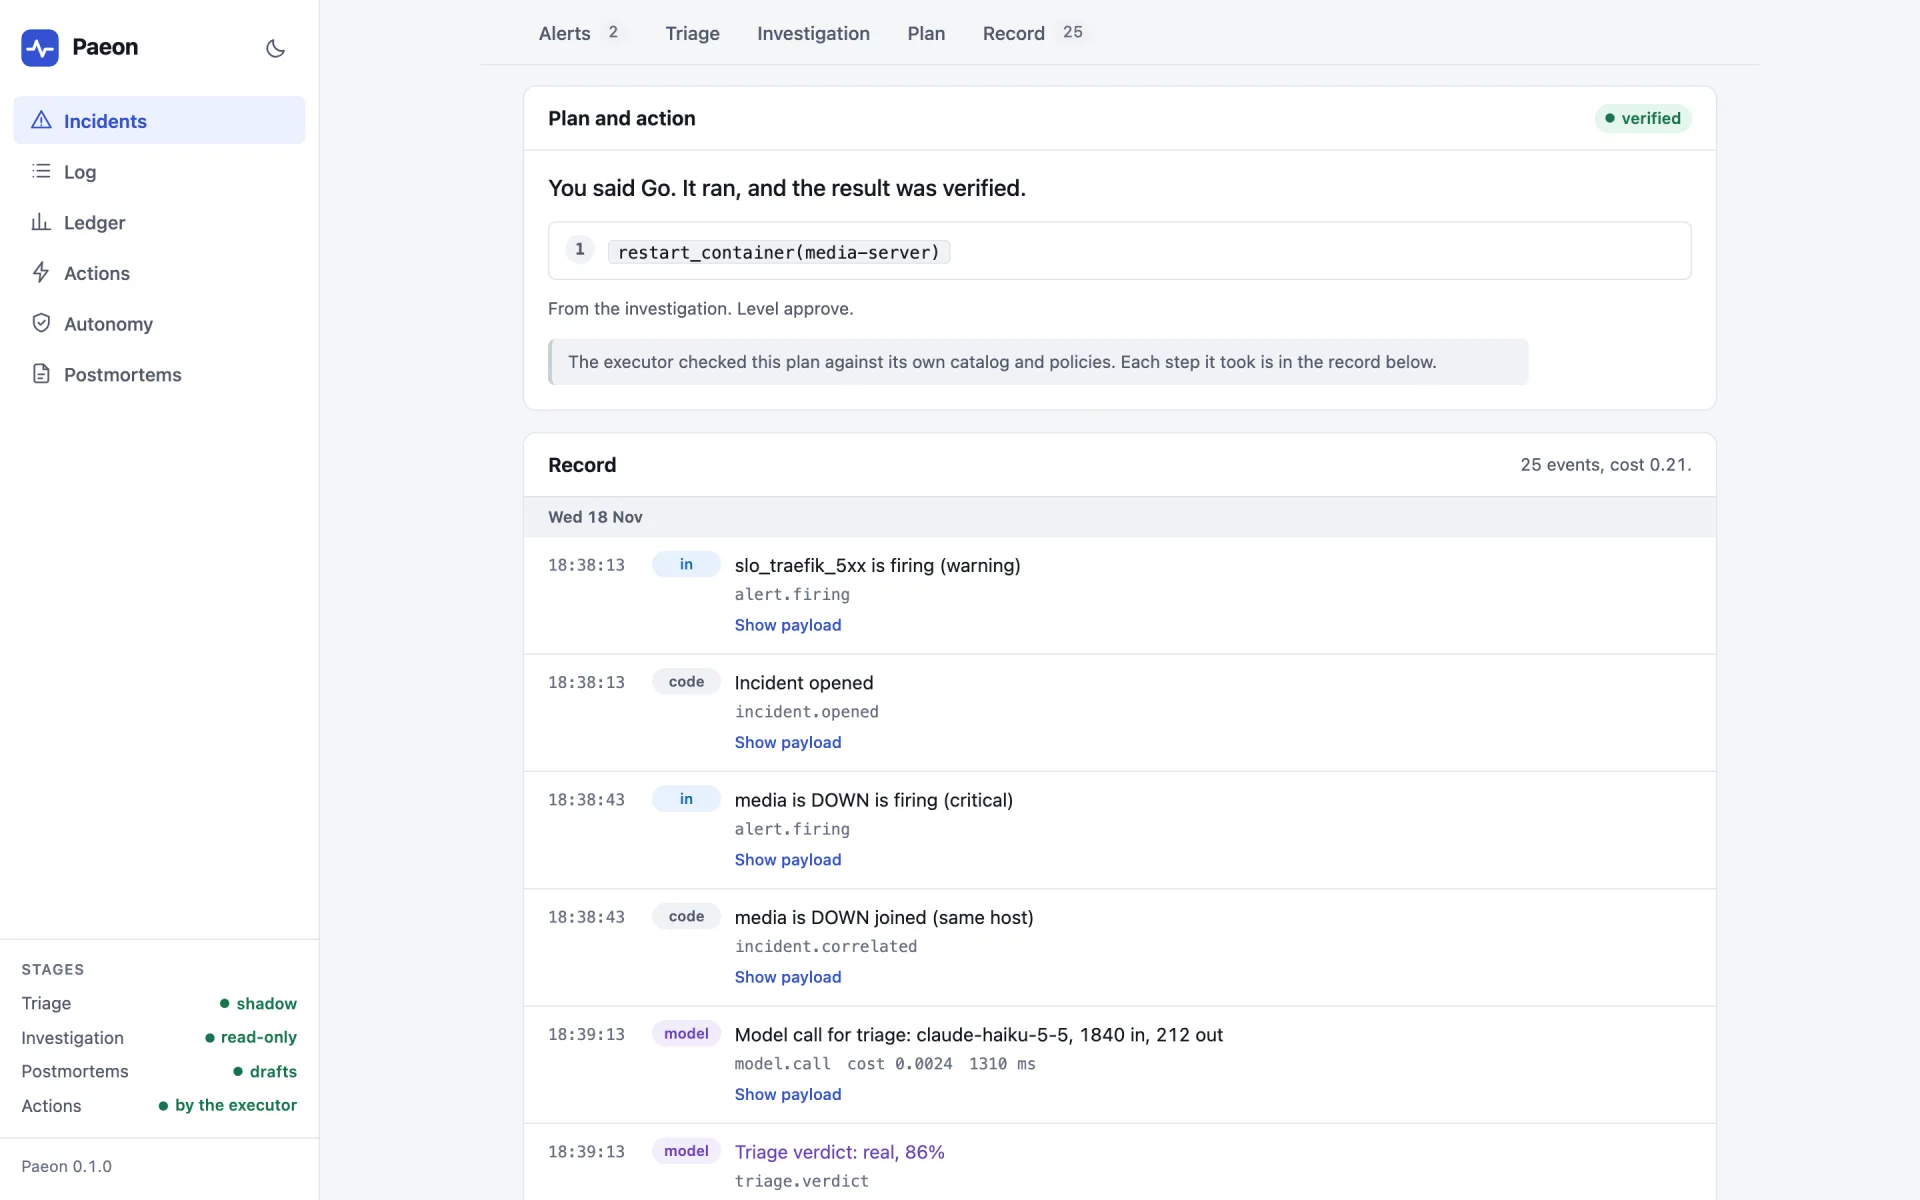
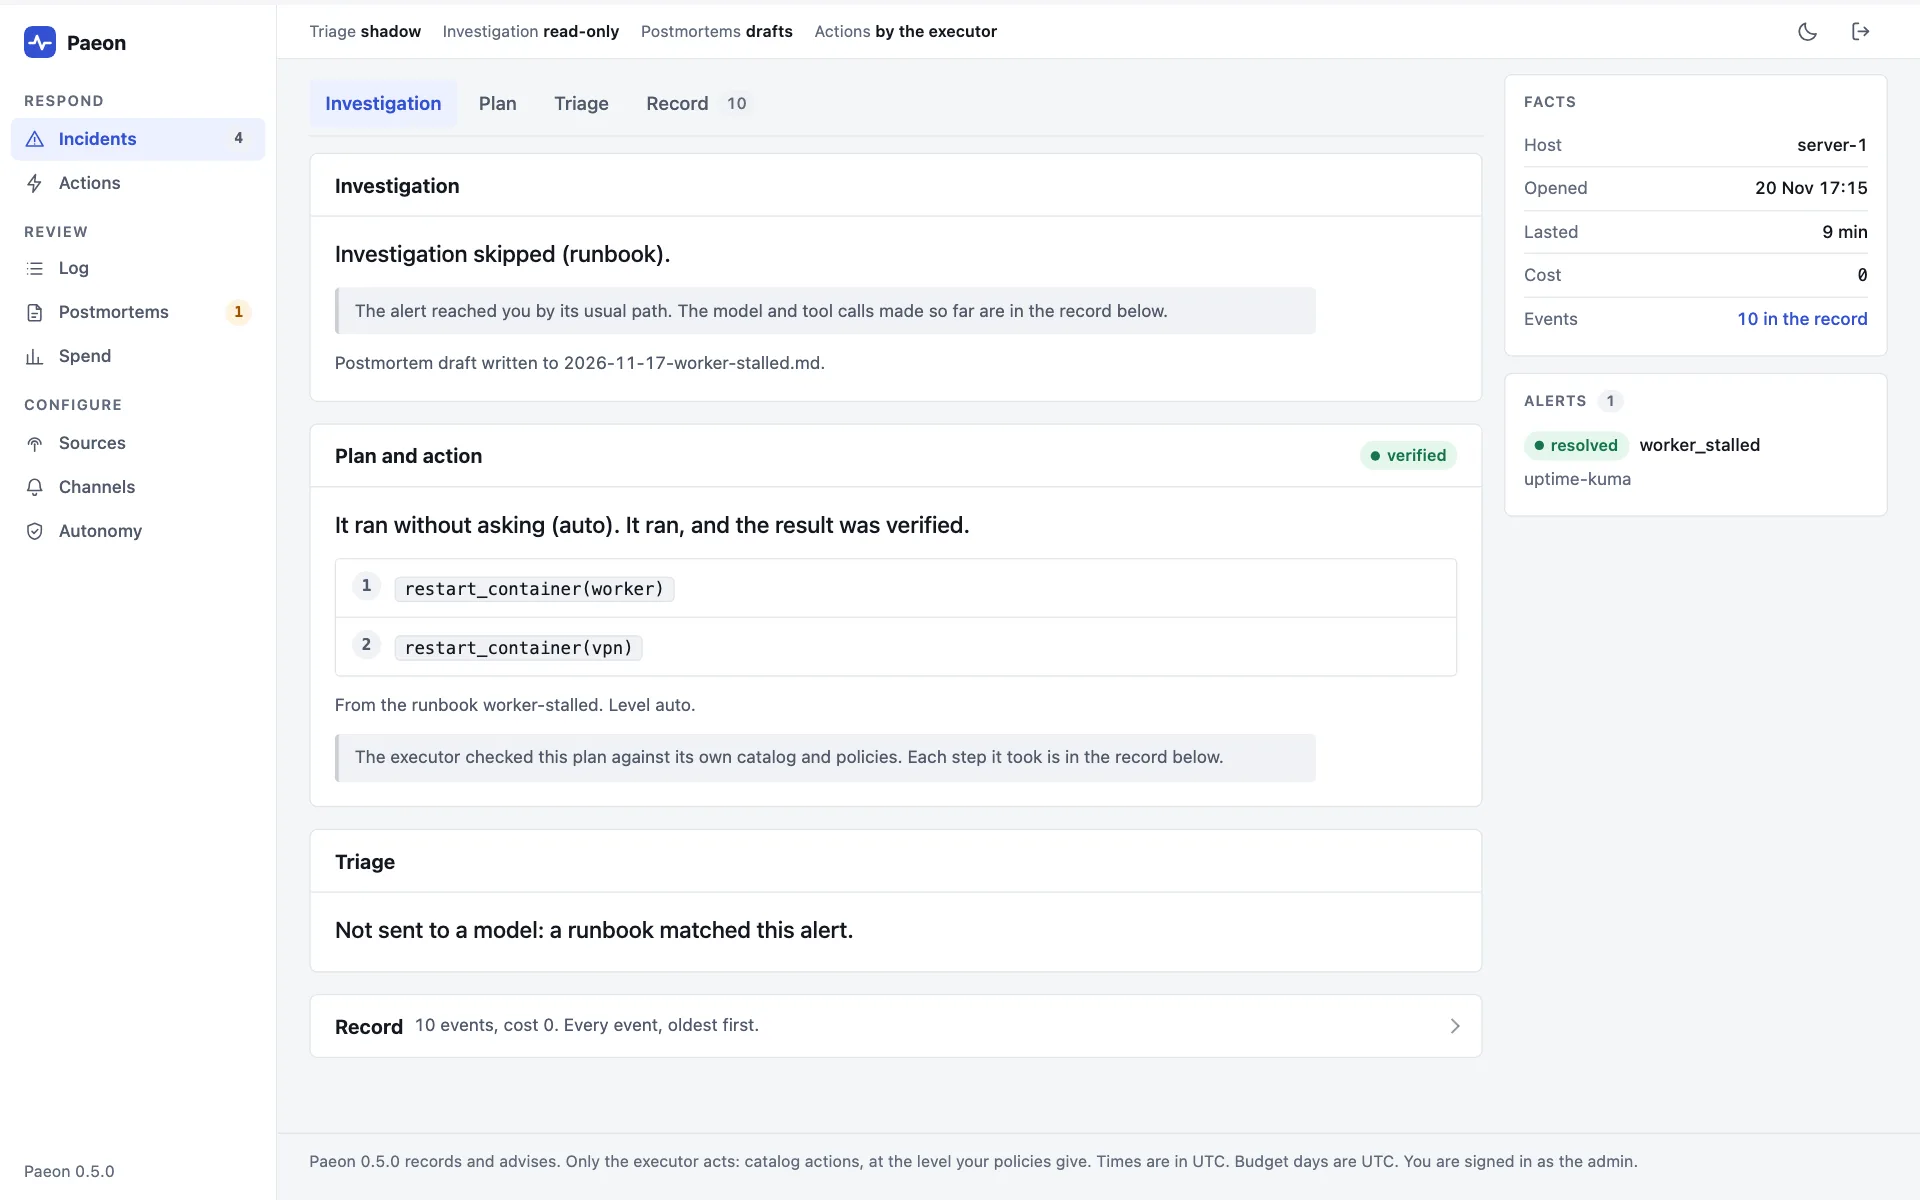
Videos: draw the redesigned console
website/videos/shots now holds copies of the new screenshots: board becomes
explorer, board-quiet becomes explorer-quiet, board-after (unused) is gone.
Every crop and every highlight pointing into a screenshot is re-measured for
the new layout (rail, explorer table, incident sections). The narration
still says what the console does, so no video is narrated again; narrate.py
--check passes.

diff --git a/website/videos/hands-on/scenes.js b/website/videos/hands-on/scenes.js
@@ -75,7 +75,7 @@ function sFate(t, d, cues) {
 function sGo(t, d, cues) {
   K.head("ACTIONS.CONSOLE_APPROVAL", "GO, IN THE CONSOLE", seg(t, 0.2, 0.9));
   const a0 = at(cues, 0, 0.5), a1 = at(cues, 1, 5.2);
-  browser(80, 170, 700, "plan-console-go", seg(t, a0, a0 + 0.6), { url: "paeon.example.org/ui/incidents/3" });
+  browser(80, 170, 700, "plan-console-go", seg(t, a0, a0 + 0.6), { url: "paeon.example.org/ui/incidents/3", crop: [0.161, 0.237, 0.611, 0.443] });
   const kr = seg(t, a1, a1 + 0.5);
   sheet(830, 190, 370, "THE EXECUTOR'S RULES", [
     ["actions:", C.faint], ["  console_approval: true", C.accent, seg(t, a1 + 0.4, a1 + 1.4)],
@@ -105,11 +105,11 @@ function sSame(t, d, cues) {
 function sQuiet(t, d, cues) {
   K.head("STILL OPEN?", "QUIET FOR THREE DAYS", seg(t, 0.2, 0.9));
   const a0 = at(cues, 0, 0.5), a1 = at(cues, 1, 5.0);
-  const h = browser(80, 170, 1120, "board-quiet", seg(t, a0, a0 + 0.6), { crop: [0.205, 0.635, 0.775, 0.115] });
+  const h = browser(80, 170, 1120, "explorer-quiet", seg(t, a0, a0 + 0.6), { crop: [0.314, 0.391, 0.669, 0.111] });
   text("The source sends a firing. The recovery never comes.", 80, 210 + h + 30, { size: 18, color: C.soft, alpha: seg(t, a0 + 1.5, a0 + 2.1) });
-  // the quiet tag, at the right of the card
+  // the quiet tag, after the title of the row
   const kq = seg(t, a1 + 0.5, a1 + 1.0);
-  if (kq > 0) highlight(80 + 1120 * 0.73, 200 + h * 0.2, 1120 * 0.085, h * 0.24, kq);
+  if (kq > 0) highlight(80 + 1120 * 0.261, 200 + h * 0.56, 1120 * 0.086, h * 0.16, kq);
   K.lamp(80, 210 + h + 60, 220, 44, "QUIET 3 DAYS", "HOLD", seg(t, a1 + 0.8, a1 + 1.2));
 }
 
@@ -121,7 +121,7 @@ function sRecheck(t, d, cues) {
     { name: "UPTIME-KUMA", note: "cannot be asked", state: "", label: "", ks: 0, kn: seg(t, a0 + 1.2, a0 + 1.7), nx: 190, size: 16, h: 62, lw: 150 },
   ], seg(t, a0, a0 + 0.5));
   text("Resolved through the recorder, the usual way.", 80, 376, { size: 17, color: C.soft, alpha: seg(t, a1 + 0.6, a1 + 1.1) });
-  browser(660, 170, 540, "still-open", seg(t, a2, a2 + 0.6), { url: "paeon.example.org/ui/incidents/3" });
+  browser(660, 170, 540, "still-open", seg(t, a2, a2 + 0.6), { url: "paeon.example.org/ui/incidents/3", crop: [0.161, 0.437, 0.611, 0.488] });
   K.lamp(80, 400, 240, 46, "CLOSED BY HAND", "HOLD", seg(t, within(cues, 2, 0.4, a2 + 2, 0), within(cues, 2, 0.4, a2 + 2, 0) + 0.4));
   text("who, when and why: in the record", 340, 430, { size: 16, color: C.soft, alpha: seg(t, within(cues, 2, 0.5, a2 + 2.5, 0), within(cues, 2, 0.5, a2 + 2.5, 0) + 0.4) });
   const kf = seg(t, within(cues, 2, 0.8, a2 + 4, 0), within(cues, 2, 0.8, a2 + 4, 0) + 0.4);
@@ -132,7 +132,7 @@ function sRecheck(t, d, cues) {
 function sReview(t, d, cues) {
   K.head("POSTMORTEMS", "TRIAGE READS THE REVIEWED ONES", seg(t, 0.2, 0.9));
   const a0 = at(cues, 0, 0.5), a1 = at(cues, 1, 4.0), a2 = at(cues, 2, 9.5);
-  browser(80, 170, 760, "postmortem-review", seg(t, a1, a1 + 0.6), { url: "paeon.example.org/ui/postmortems", crop: [0.205, 0.05, 0.79, 0.5] });
+  browser(80, 170, 760, "postmortem-review", seg(t, a1, a1 + 0.6), { url: "paeon.example.org/ui/postmortems", crop: [0.161, 0.05, 0.822, 0.52] });
   const kd = seg(t, a0 + 0.3, a0 + 0.8);
   K.lamp(880, 190, 320, 46, "DRAFT", "", kd);
   text("the model's account: triage does not read it", 880, 260, { size: 15, color: C.soft, alpha: kd });
@@ -160,7 +160,7 @@ function sOutro(t, d, cues) {
   text(S.url, 640, 568, { size: 18, font: MONO, color: C.accent, align: "center", alpha: seg(t, a1 + 1.0, a1 + 1.6) });
 }
 
-K.load(["plan-console-go", "board-quiet", "still-open", "postmortem-review"]);
+K.load(["plan-console-go", "explorer-quiet", "still-open", "postmortem-review"]);
 VIDEO.create({
   title: { en: "Your hands on it" },
   kicker: { en: "Paeon · 0.5" },

diff --git a/website/videos/the-flow/scenes.js b/website/videos/the-flow/scenes.js
@@ -147,7 +147,7 @@ function sInvestigate(t, d, cues) {
 }
 
 /* Where a point of the investigation screenshot lands on the canvas. */
-const SHOT = { x: 80, y: 168, w: 720, crop: [0.268, 0.066, 0.632, 0.56] };
+const SHOT = { x: 80, y: 168, w: 720, crop: [0.161, 0.128, 0.611, 0.543] };
 const onShot = (px, py) => [SHOT.x + (px / 1920 - SHOT.crop[0]) / SHOT.crop[2] * SHOT.w,
                             SHOT.y + (py / 1200 - SHOT.crop[1]) / SHOT.crop[3] * (SHOT.w * (1200 * SHOT.crop[3]) / (1920 * SHOT.crop[2]))];
 
@@ -161,13 +161,13 @@ function sAnalysis(t, d, cues) {
   text("ROOT CAUSE", 840, 200, { size: 17, weight: 600, font: COND, spacing: "3px", color: K.model, alpha: k1 });
   para("media-server lost its database connections during the backup, and does not reconnect by itself.", 840, 232, 360, { size: 19, lh: 28, color: C.ink, alpha: k1 });
   text("78% sure · 3 tool calls · 2 min", 840, 348, { size: 15, font: MONO, color: C.faint, alpha: seg(t, a1 + 1.2, a1 + 1.8) });
-  const [ex, ey] = onShot(1630, 512), [ex2, ey2] = onShot(1678, 664);
+  const [ex, ey] = onShot(1388, 470), [ex2, ey2] = onShot(1444, 616);
   const k2 = seg(t, a2, a2 + 0.6);
   highlight(ex, ey, ex2 - ex, ey2 - ey, k2, C.accent);
   line(partial([[ex2 + 8, (ey + ey2) / 2], [840, 420]], k2), C.accent, 1.5, 0.9);
   text("EVERY CLAIM → ITS TOOL CALL", 840, 412, { size: 17, weight: 600, font: COND, spacing: "3px", color: C.accent, alpha: k2 });
   text("c1, c2, c3 open the call in the record", 840, 440, { size: 15, color: C.soft, alpha: seg(t, a2 + 0.5, a2 + 1.1) });
-  const [nx, ny] = onShot(1474, 682), [nx2, ny2] = onShot(1680, 718);
+  const [nx, ny] = onShot(1236, 632), [nx2, ny2] = onShot(1448, 674);
   const k3 = seg(t, a3, a3 + 0.6);
   highlight(nx, ny, nx2 - nx, ny2 - ny, k3, C.bad);
   line(partial([[nx2 + 8, (ny + ny2) / 2], [840, 510]], k3), C.bad, 1.5, 0.9);
@@ -262,7 +262,7 @@ function sGo(t, d, cues) {
 function sResolved(t, d, cues) {
   K.head("RESOLVED", "THE INCIDENT CLOSES", seg(t, 0.2, 0.9));
   const a0 = at(cues, 0, 0.5), a1 = at(cues, 1, 3.6), a2 = at(cues, 2, 8.1);
-  K.shot("plan-verified", 80, 170, 700, { k: seg(t, a0 + 0.2, a0 + 0.8), crop: [0.268, 0.066, 0.632, 0.285] });
+  K.shot("plan-verified", 80, 170, 700, { k: seg(t, a0 + 0.2, a0 + 0.8), crop: [0.161, 0.353, 0.611, 0.247] });
   K.log(80, 440, 700, [
     { time: "21:11:40", tag: "in", text: "slo_traefik_5xx resolved", kind: "alert.resolved", a: a0 + 0.8 },
     { time: "21:12:10", tag: "in", text: "media is DOWN resolved", kind: "alert.resolved", a: a0 + 1.4 },

diff --git a/website/videos/setup-in-the-browser/scenes.js b/website/videos/setup-in-the-browser/scenes.js
@@ -51,7 +51,7 @@ function sTwo(t, d, cues) {
   yaml.forEach(([s, c], i) => text(typed(s, seg(t, a0 + 0.4 + i * 0.25, a0 + 0.8 + i * 0.25)), 104, 270 + i * 30, { size: 16, font: MONO, color: c, alpha: kf }));
   // the browser, new in 0.4
   const kb = seg(t, a1, a1 + 0.6);
-  browser(640, 190 + (1 - outCubic(kb)) * 16, 560, "sources", kb, { crop: [0.19, 0, 0.81, 0.62], shadow: false });
+  browser(640, 190 + (1 - outCubic(kb)) * 16, 560, "sources", kb, { crop: [0.155, 0, 0.835, 0.64], shadow: false });
   K.lamp(1040, 140, 160, 40, "NEW IN 0.4", "HOLD", seg(t, a1 + 0.6, a1 + 1.0));
   text("Both, side by side. The file is never written.", 80, 572, { size: 18, color: C.soft, alpha: seg(t, a1 + 1.6, a1 + 2.2) });
 }
@@ -93,7 +93,7 @@ function sCode(t, d, cues) {
   ], { title: "docker logs paeon", alpha: seg(t, 0.3, 0.8), size: 16, lh: 30 });
   text("Whoever reads this log owns the server.", 80, 452, { size: 18, color: C.soft, alpha: seg(t, within(cues, 1, 0.6, a1 + 3, 0), within(cues, 1, 0.75, a1 + 4, 0)) });
   const kb = seg(t, a0 + 0.2, a0 + 0.8);
-  browser(700, 160, 500, "setup", kb, { crop: [0.31, 0.13, 0.38, 0.45], url: "paeon.example.org/ui/setup" });
+  browser(700, 160, 500, "setup", kb, { crop: [0.355, 0.1, 0.29, 0.343], url: "paeon.example.org/ui/setup" });
   K.wire([[460, 340], [690, 340]], seg(t, a1 + 2.0, a1 + 2.8), C.accent, 2, [6, 5]);
   K.lamp(80, 500, 280, 48, "PASSWORD CHOSEN", "GO", seg(t, a2 + 0.6, a2 + 1.0));
   text("Only a salted hash of it is kept.", 380, 531, { size: 17, color: C.soft, alpha: seg(t, a2 + 1.0, a2 + 1.5) });
@@ -103,7 +103,7 @@ function sLeft(t, d, cues) {
   K.head("GETTING STARTED", "WHAT IS LEFT TO DO", seg(t, 0.2, 0.9));
   const a0 = at(cues, 0, 0.5), a1 = at(cues, 1, 3.6), a2 = at(cues, 2, 8);
   // the steps card of the incidents page; its rows sit at these fractions of the crop
-  const x = 140, w = 1000, crop = [0.205, 0.125, 0.775, 0.375], rows = [0.165, 0.467, 0.767, 0.993];
+  const x = 140, w = 1000, crop = [0.161, 0.114, 0.822, 0.328], rows = [0.156, 0.464, 0.770, 0.995];
   const h = browser(x, 160, w, "getting-started", seg(t, a0, a0 + 0.6), { crop }) - 30, top = 190;
   [0.05, 0.36, 0.68].forEach((f, i) => {
     const s = within(cues, 1, f, a1 + i, 0), k = seg(t, s, s + 0.4);

diff --git a/website/videos/paeon-explained/scenes.js b/website/videos/paeon-explained/scenes.js
@@ -222,7 +222,7 @@ function sLog(t, d, cues) {
     { time: "03:12:09", tag: "model", text: "Triage says: real", kind: "a model call · cost 0.0019", a: a0 + 4.8 },
     { time: "03:12:31", tag: "tool", text: "Log search returned its rows", kind: "a tool result", a: a0 + 6.6 },
   ], t, { lh: 32, size: 16 });
-  K.shot("board", 80, 364, 1120, { k: seg(t, a0 + 1.0, a0 + 1.7), crop: [0.172, 0.17, 0.82, 0.255] });
+  K.shot("explorer", 80, 364, 1120, { k: seg(t, a0 + 1.0, a0 + 1.7), crop: [0.314, 0.391, 0.669, 0.189] });
 }
 
 /* A budget meter: a label, a track that fills, one line under it. */
@@ -302,7 +302,7 @@ function sOutro(t, d, cues) {
   text(S.url, 640, 578, { size: 18, font: MONO, color: C.accent, align: "center", alpha: seg(t, a1 + 1.6, a1 + 2.2) });
 }
 
-K.load(["board"]);
+K.load(["explorer"]);
 VIDEO.create({
   title: { en: "Paeon in two minutes" },
   kicker: { en: "Paeon · explained" },

diff --git a/website/videos/earning-autonomy/scenes.js b/website/videos/earning-autonomy/scenes.js
@@ -160,7 +160,7 @@ function sRecord(t, d, cues) {
   text("Paeon never changes a policy. It keeps the record.", 80, 552, { size: 19, weight: 600, alpha: seg(t, a0 + 2.6, a0 + 3.2) });
 }
 
-const EARNED = { x: 80, y: 168, w: 1120, crop: [0.268, 0.13, 0.632, 0.155] };
+const EARNED = { x: 80, y: 168, w: 1120, crop: [0.161, 0.174, 0.822, 0.215] };
 
 function sEarned(t, d, cues) {
   K.head("EARNED", "FIVE IN A ROW: A PROPOSAL", seg(t, 0.2, 0.9));
